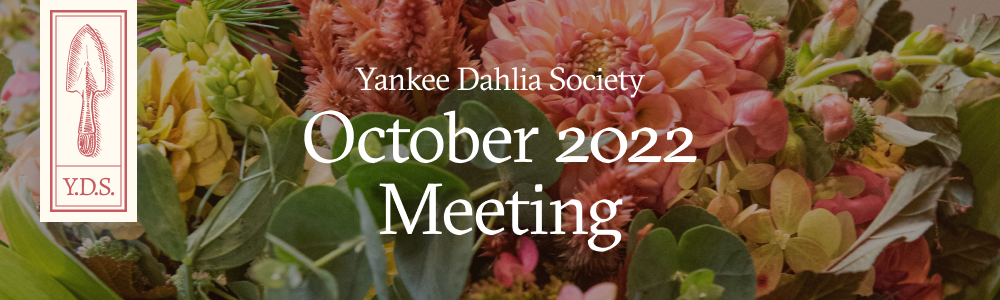
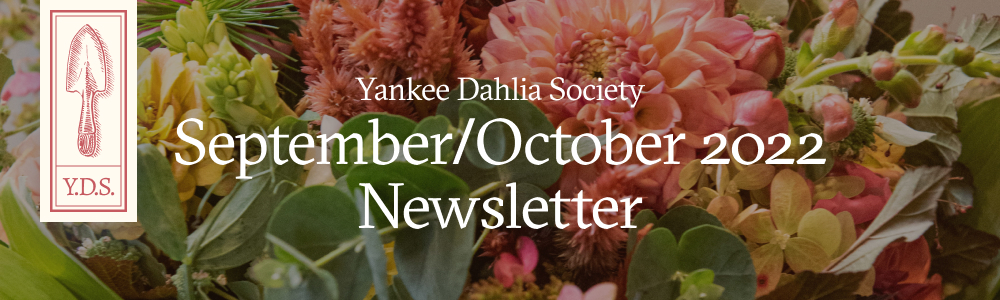
Newsletter updates

Changed region(s): [[0.155, 0.36, 0.837, 0.6], [0.341, 0.6, 0.651, 0.84], [0.341, 0.21, 0.651, 0.36]]

diff --git a/202211/20221107_newsletter/20221107_newsletter.html b/202211/20221107_newsletter/20221107_newsletter.html
@@ -293,9 +293,9 @@
                                 has kept us very busy.
                               </p>
                               <p>
-                                New this year, YDS will be holding a day-long
-                                Dividing Day at Spence Farm in Woburn. We are
-                                setting aside
+                                New this year, YDS will be holding a
+                                <b>Dahlia-O-Rama</b>
+                                at Spence Farm in Woburn. We are setting aside
                                 <b>
                                   Sunday, December 4th from 7:00am to 7:00 pm
                                 </b>
@@ -309,7 +309,7 @@
                                 of time will get Early Access for a full week to
                                 our online tuber sale before we open it up to
                                 all our members.
-                                <b>December 4</b>
+                                <b>December 4th</b>
                                 is a great opportunity to get your volunteer
                                 hours in for Early Access if you can’t come at
                                 any other time between now and then. Be sure to
@@ -342,11 +342,11 @@
                                 <b><em>Two Zoom Q&A Sessions:</em></b>
                               </p>
                               <p>
-                                <b>Monday, November 7th</b>
+                                <b>Monday, November 14th</b>
                                 , 6:00pm - 7:00pm
                               </p>
                               <p>
-                                <b>Wednesday, November 9th</b>
+                                <b>Wednesday, November 16th</b>
                                 , 10:00am - 11:00am
                               </p>
                               <p>
@@ -387,9 +387,7 @@
                                 <strong>Email us:</strong>
                                 Prior to the meeting your garden pictures,
                                 favorite bloom photo, seasonal tip or dahlia
-                                questions
-                                <br />
-                                email:
+                                questions to
                                 <a
                                   href="mailto:info@yankeedahliasociety.com"
                                   target="_blank"
@@ -405,15 +403,6 @@
                                 Zoom
                               </p>
                               <p class="event__details">
-                                <strong>Date & Time:</strong>
-                                Two sessions next week; join us online for one
-                                or both. Log in 15 minutes early to get settled
-                                <br />
-                                Monday, November 7th, 6:00pm - 7:00pm
-                                <br />
-                                Wednesday, November 9th, 10:00am - 11:00am
-                              </p>
-                              <p class="event__details">
                                 <strong>Zoom Link</strong>
                                 <a
                                   href="https://us06web.zoom.us/j/84918286039?pwd=clBhS25Zd3NQNzJFaFhmeGExU1BaUT09"
@@ -421,6 +410,15 @@
                                 >
                                   https://us06web.zoom.us/j/84918286039?pwd=clBhS25Zd3NQNzJFaFhmeGExU1BaUT09
                                 </a>
+                              </p>
+                              <p class="event__details">
+                                <strong>Date & Time:</strong>
+                                Two sessions next week; join us online for one
+                                or both. Log in 15 minutes early to get settled
+                                <br />
+                                Monday, November 7th, 6:00pm - 7:00pm
+                                <br />
+                                Wednesday, November 9th, 10:00am - 11:00am
                               </p>
                             </td>
                           </tr>
@@ -685,7 +683,13 @@
                               </p>
                               <p>
                                 While I don't post often on instagram, I'd love
-                                to connect - @bmcnera
+                                to connect -
+                                <a
+                                  href="https://www.instagram.com/bmcnera/"
+                                  target="_blank"
+                                >
+                                  @bmcnera
+                                </a>
                               </p>
                             </td>
                           </tr>
@@ -697,7 +701,7 @@
                           <tr>
                             <td>
                               <h1 style="margin-bottom: 0">
-                                Club Volunteer Dahlia-O-Rama
+                                December Dahlia-O-Rama
                               </h1>
                               <h3 style="margin-bottom: 1rem">
                                 Sunday, December 4, 2022 from 7:00am to 7:00pm
